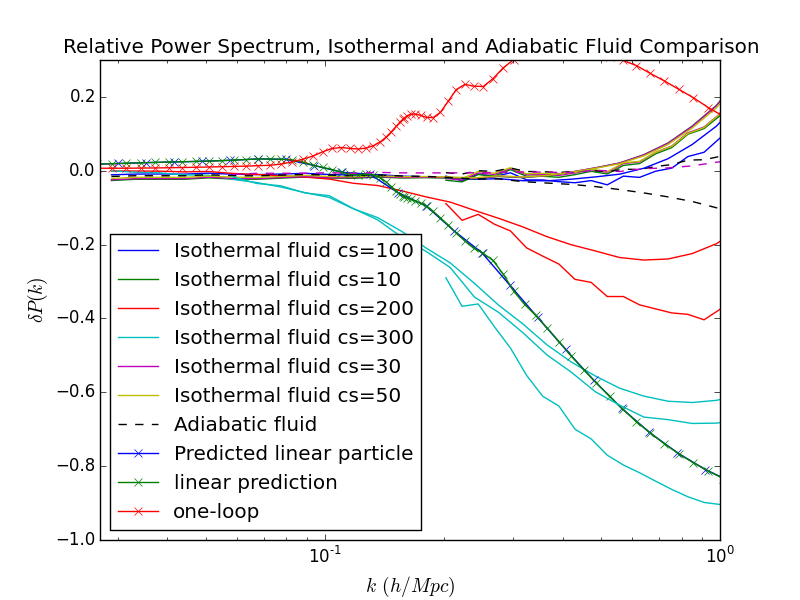
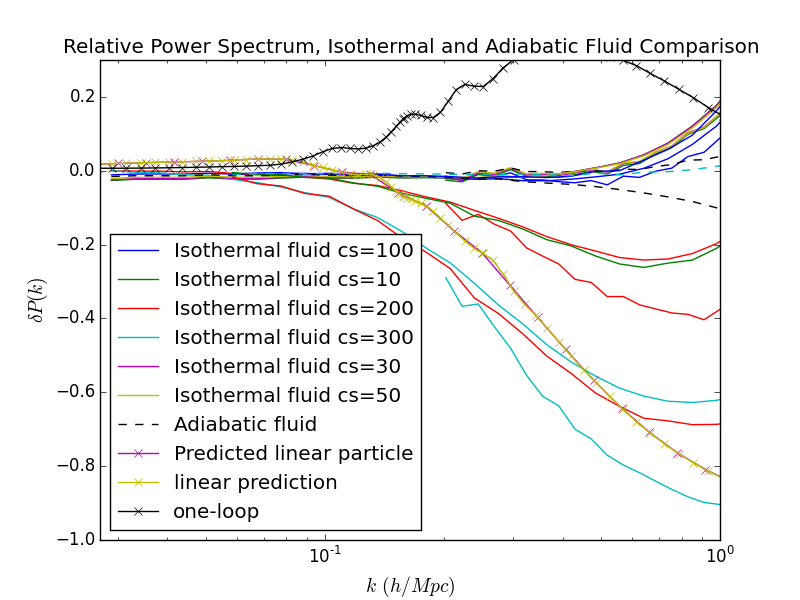
Updated with more b200 data.

diff --git a/plots/isothermal/isothermal_fluid_low_adiabatic_normalized_particle_minpressure.py b/plots/isothermal/isothermal_fluid_low_adiabatic_normalized_particle_minpressure.py
@@ -53,7 +53,6 @@ for simtype in simtypes:
     for filename in filenames:
         if 'isothermal' in filename and 'minpressure16' in filename:
             isothermal = isothermalpattern.findall(filename)[0]
-            print isothermal
             if int(isothermal) <= 300:
                 n = npattern.findall(filename)[0]
                 kvalues, ps = np.loadtxt(result_dir+filename, unpack=True)
@@ -69,18 +68,7 @@ for simtype in simtypes:
             ps = (ps - ps_base)/ps_base
             plt.semilogx(kvalues, ps, '--', label=None)
 
-_, linear_kvalues, linear_ps, nonlinear_ps = np.loadtxt(result_dir+'testPk0.dat', unpack=True)
-linear_ps = (linear_ps - nonlinear_ps)/nonlinear_ps
-plt.semilogx(linear_kvalues, linear_ps, '-x', label='Predicted linear particle')
-
-_, linear_kvalues_400, _, nonlinear_ps_400, linear_ps_400, oneloop_400 = np.loadtxt(result_dir+'testPk0.400.dat', unpack=True)
-linear_ps_400 = (linear_ps_400 - nonlinear_ps_400)/nonlinear_ps_400
-oneloop_400 = (oneloop_400 - nonlinear_ps_400)/nonlinear_ps_400
-plt.semilogx(linear_kvalues_400, linear_ps_400, '-x', label='linear prediction')
-plt.semilogx(linear_kvalues_400, oneloop_400, '-x', label='one-loop')
-
-
-base = 'particle_b200_n1024_t0.005_h2_z50.out'
+base = 'particle_b200_n1024_t0.005_h2_z100.out'
 kvalues_base, ps_base = np.loadtxt(result_dir+base, unpack=True)
 kvalues_base = kvalues_base[kvalues_base < 10]
 ps_base = ps_base[:len(kvalues_base)]
@@ -94,7 +82,6 @@ for simtype in simtypes:
     for filename in filenames:
         if 'isothermal' in filename and 'minpressure16' in filename:
             isothermal = isothermalpattern.findall(filename)[0]
-            print isothermal
             if int(isothermal) <= 300:
                 n = npattern.findall(filename)[0]
                 kvalues, ps = np.loadtxt(result_dir+filename, unpack=True)
@@ -109,6 +96,16 @@ for simtype in simtypes:
             ps = ps[:len(kvalues)]
             ps = (ps - ps_base)/ps_base
             plt.semilogx(kvalues, ps, '--', label=None)
+
+_, linear_kvalues, linear_ps, nonlinear_ps = np.loadtxt(result_dir+'testPk0.dat', unpack=True)
+linear_ps = (linear_ps - nonlinear_ps)/nonlinear_ps
+plt.semilogx(linear_kvalues, linear_ps, '-x', label='Predicted linear particle')
+
+_, linear_kvalues_400, _, nonlinear_ps_400, linear_ps_400, oneloop_400 = np.loadtxt(result_dir+'testPk0.400.dat', unpack=True)
+linear_ps_400 = (linear_ps_400 - nonlinear_ps_400)/nonlinear_ps_400
+oneloop_400 = (oneloop_400 - nonlinear_ps_400)/nonlinear_ps_400
+plt.semilogx(linear_kvalues_400, linear_ps_400, '-x', label='linear prediction')
+plt.semilogx(linear_kvalues_400, oneloop_400, '-x', label='one-loop')
 
 plt.xlim([0.027,1])
 plt.ylim([-1.0,0.3])

diff --git a/plots/isothermal/isothermal_fluid_low_adiabatic_normalized_particle_z10_minpressure.py b/plots/isothermal/isothermal_fluid_low_adiabatic_normalized_particle_z10_minpressure.py
@@ -44,11 +44,9 @@ for simtype in simtypes:
     params = [simtype,'b400','n1024','t0.005','h2','iso','z10_','z100']
     filenames = [filename for filename in results if all(param in filename for param in params)]
     filenames.append('fluid_b400_n1024_t0.005_h2_z100_z10.out')
-    print filenames
     for filename in filenames:
         if 'iso' in filename and 'minpressure16' in filename:
             isothermal = isothermalpattern.findall(filename)[0]
-            print isothermal
             if int(isothermal) <= 300:
                 n = npattern.findall(filename)[0]
                 kvalues, ps = np.loadtxt(result_dir+filename, unpack=True)
@@ -74,11 +72,9 @@ for simtype in simtypes:
     params = [simtype,'b200','n1024','t0.005','h2','iso','z10_','z100']
     filenames = [filename for filename in results if all(param in filename for param in params)]
     filenames.append('fluid_b200_n1024_t0.005_h2_z10.out')
-    print filenames
     for filename in filenames:
         if 'iso' in filename and 'minpressure16' in filename:
             isothermal = isothermalpattern.findall(filename)[0]
-            print isothermal
             if int(isothermal) <= 300:
                 n = npattern.findall(filename)[0]
                 kvalues, ps = np.loadtxt(result_dir+filename, unpack=True)
@@ -86,7 +82,7 @@ for simtype in simtypes:
                 ps = ps[:len(kvalues)]
                 ps = (ps - ps_base)/ps_base
                 style = '-'
-                plt.semilogx(kvalues, ps, style, label=str(isothermal) + 'b200')
+                plt.semilogx(kvalues, ps, style, label=None)
         elif filename is 'fluid_b200_n1024_t0.005_h2_z100_z10.out': 
             kvalues, ps = np.loadtxt(result_dir+filename, unpack=True)
             kvalues = kvalues[:len(kvalues_base)]
